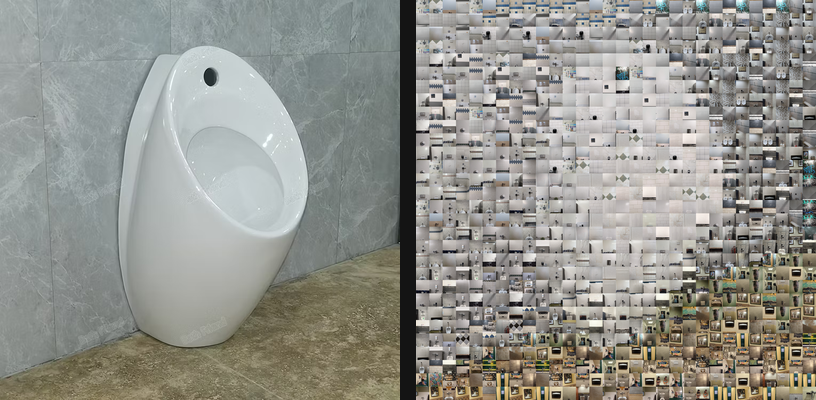
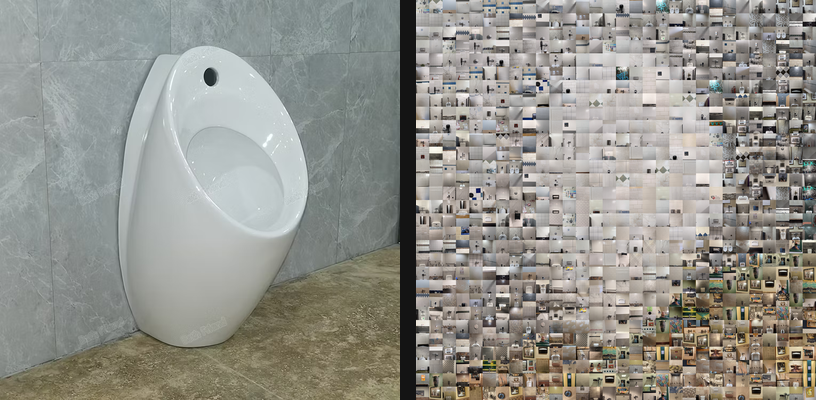
replace reuse caps with a continuous diversity dial
--max-reuse and --min-repeat-dist were hard filters: the matcher walked tiles
by ascending delta-E and took the first that passed, silently falling back to
the nearest tile when nothing did. There was no way to say "prefer variety but
keep matching well", only "forbid reuse past N".

Tiles are now costed as delta_e + weight * penalty, where the penalty grows
with prior placements and with how close they are to the current cell, and
--diversity (0-10, default 3) sets the weight. A reused tile still wins when
it is a markedly better colour match, so the dial never forces an obviously
wrong tile in for the sake of variety.

The penalty is measured against each tile's fair share (cells / tiles). Without
that, a gallery with fewer tiles than cells gets charged for repeats it cannot
avoid, the penalty swamps colour distance, and the result degrades badly.

Measured on the 1440-tile gallery at grain 25: the old caps reached 536 distinct
tiles at 13.92 mean delta-E, past the point where mismatches read as wrong. The
dial at its default reaches 699 at 5.77, because it only swaps where a near-equal
tile exists. The showcase is regenerated accordingly.

Changed region(s): [[0.4902, 0.0, 1.0, 1.0]]

diff --git a/src/mosaic_builder/matcher.py b/src/mosaic_builder/matcher.py
@@ -96,6 +96,49 @@ class MatchResult:
     matches: list[CellMatch]
 
 
+#: User-facing `--diversity` dial runs 0..10; this maps it onto the reuse
+#: penalty in Delta-E units per prior placement. At 10 a tile already used
+#: once is treated as ~6 Delta-E worse than it measures, which is half the
+#: "looks off" threshold of ~12 — strong pressure without ignoring colour.
+_DIVERSITY_SCALE = 0.6
+
+#: Default dial position. Measured on the 1440-tile gallery against the urinal
+#: target at grain 25: mean Delta-E 5.34 (well inside the ~12 "looks off"
+#: threshold), 587 distinct tiles, no tile placed more than 4 times. At 0 a
+#: single tile was used 138 times out of 900 cells. See the README table.
+_DEFAULT_DIVERSITY = 3.0
+
+#: Chebyshev radius within which a repeat is considered "nearby" and charged
+#: extra. Beyond this, only the global use count applies.
+_LOCAL_RADIUS = 4
+
+#: How much more a repeat immediately adjacent costs than a generic reuse.
+#: Falls off linearly to zero at `_LOCAL_RADIUS`.
+_LOCAL_STRENGTH = 4.0
+
+
+def diversity_weight(diversity: float) -> float:
+    """Map the 0..10 `--diversity` dial onto a Delta-E-per-reuse penalty."""
+    return max(0.0, float(diversity)) * _DIVERSITY_SCALE
+
+
+def _nearby_placements(
+    placed: dict[tuple[int, int], int], cell: CellDescriptor, radius: int
+) -> list[tuple[tuple[int, int], int]]:
+    """Already-placed cells within Chebyshev `radius` of `cell`.
+
+    Scans the neighbourhood rather than every prior placement, so the cost per
+    cell stays constant as the mosaic grows.
+    """
+    found = []
+    for row in range(cell.row - radius, cell.row + 1):
+        for col in range(cell.col - radius, cell.col + radius + 1):
+            tile_idx = placed.get((row, col))
+            if tile_idx is not None:
+                found.append(((row, col), tile_idx))
+    return found
+
+
 def _distances(cells: np.ndarray, tiles: np.ndarray) -> np.ndarray:
     """Euclidean (CIE76) distance matrix between cell and tile LAB vectors."""
     return np.sqrt(((cells[:, None, :] - tiles[None, :, :]) ** 2).sum(-1))
@@ -107,27 +150,34 @@ def match_grid(
     *,
     tile_side: int,
     db_path: str,
-    max_reuse: int = 0,
-    min_repeat_dist: int = 0,
+    diversity: float = _DEFAULT_DIVERSITY,
     show_progress: bool = False,
 ) -> MatchResult:
-    """Greedily assign the nearest acceptable tile to every cell of `grid`.
+    """Assign a tile to every cell of `grid`, trading colour fidelity for variety.
 
     `descriptors` is the list returned by `get_tile_lab_descriptors`; LAB is
     read from the keys `mean_L`, `mean_a` and `mean_bb` (note that `mean_b` is
     RGB blue, not LAB b*).
 
-    Cells are walked in row-major order. For each cell the tiles are considered
-    in ascending LAB distance and the first candidate satisfying both
-    constraints wins:
+    Cells are walked in row-major order. Each tile is costed as::
 
-    * `max_reuse` (> 0): the tile has been placed fewer than `max_reuse` times.
-    * `min_repeat_dist` (> 0): the tile has not been placed at any cell within
-      Chebyshev distance `min_repeat_dist` of this one.
+        cost = delta_e + diversity_weight(diversity) * penalty
 
-    A value of 0 disables the corresponding constraint. When no candidate
-    satisfies the constraints the unconstrained nearest tile is used instead;
-    this function never raises for an unsatisfiable constraint set.
+    where ``penalty`` is how many times the tile has already been placed
+    *relative to its fair share* (``cells / tiles``), plus an extra charge for
+    placements within `_LOCAL_RADIUS` cells of this one that falls off with
+    distance. The cheapest tile wins. A heavily reused tile can therefore still
+    be chosen when it is a markedly better colour match, which is the point:
+    `diversity` expresses a preference, not a constraint.
+
+    Scaling by fair share is what keeps a dial position meaning the same thing
+    across galleries. With fewer tiles than cells, repeats are unavoidable, and
+    charging for them from the first repeat would drown out colour distance.
+
+    `diversity` runs 0..10. At 0 this is plain nearest-colour matching. Higher
+    values buy variety at the cost of mean Delta-E; see the README's tradeoff
+    table. There is no unsatisfiable-constraint case to fall back from, so this
+    never silently ignores the setting.
     """
     if not descriptors:
         raise ValueError("No tiles in database")
@@ -143,9 +193,16 @@ def match_grid(
     n_tiles = tiles.shape[0]
     chunk_size = 1024 if n_cells * n_tiles > 20_000_000 else n_cells
 
-    constrained = max_reuse > 0 or min_repeat_dist > 0
-    usage: dict[tuple[int, int], int] = {}
-    placements: dict[tuple[int, int], list[tuple[int, int]]] = {}
+    weight = diversity_weight(diversity)
+    #: How often each tile must be placed if usage were spread perfectly. When
+    #: cells outnumber tiles this is large, and reuse is unavoidable — charging
+    #: for it from the first repeat would swamp colour distance and make the
+    #: choice effectively random. Measuring usage relative to this keeps a dial
+    #: position meaning the same thing on a 9-tile and a 14000-tile gallery.
+    fair_share = max(n_cells / n_tiles, 1e-9)
+    uses = np.zeros(n_tiles, dtype=np.float64)
+    #: Tile index placed at each (row, col), for the local-repeat lookup.
+    placed: dict[tuple[int, int], int] = {}
     matches: list[CellMatch] = []
 
     block: np.ndarray | None = None
@@ -157,25 +214,24 @@ def match_grid(
         dists = block[i - block_start]
         cell = grid.cells[i]
 
-        chosen: int | None = None
-        if constrained:
-            for candidate in np.argsort(dists):
-                key = keys[candidate]
-                if max_reuse > 0 and usage.get(key, 0) >= max_reuse:
-                    continue
-                if min_repeat_dist > 0 and any(
-                    max(abs(r - cell.row), abs(c - cell.col)) < min_repeat_dist
-                    for r, c in placements.get(key, ())
-                ):
-                    continue
-                chosen = int(candidate)
-                break
-        if chosen is None:
+        if weight <= 0.0:
             chosen = int(np.argmin(dists))
+        else:
+            penalty = uses / fair_share
+            for (row, col), tile_idx in _nearby_placements(placed, cell, _LOCAL_RADIUS):
+                distance = max(abs(row - cell.row), abs(col - cell.col))
+                falloff = (_LOCAL_RADIUS - distance + 1) / (_LOCAL_RADIUS + 1)
+                # Take the closest prior placement rather than summing them.
+                # Summing stacks up when few tiles are available, swamping
+                # colour distance; what actually reads badly is one repeat
+                # sitting near this cell, not several scattered in range.
+                local = _LOCAL_STRENGTH * falloff
+                penalty[tile_idx] = max(penalty[tile_idx], uses[tile_idx] / fair_share + local)
+            chosen = int(np.argmin(dists + weight * penalty))
 
+        uses[chosen] += 1.0
+        placed[(cell.row, cell.col)] = chosen
         key = keys[chosen]
-        usage[key] = usage.get(key, 0) + 1
-        placements.setdefault(key, []).append((cell.row, cell.col))
         matches.append(
             CellMatch(
                 row=cell.row,
@@ -247,8 +303,7 @@ def run_match(
     *,
     grain: int,
     tile_side: int | None = None,
-    max_reuse: int = 0,
-    min_repeat_dist: int = 0,
+    diversity: float = _DEFAULT_DIVERSITY,
     show_progress: bool = True,
 ) -> MatchResult:
     """Analyse `target_path` and match it against the tiles in `db_path`."""
@@ -276,8 +331,7 @@ def run_match(
         descriptors,
         tile_side=tile_side,
         db_path=str(db_path),
-        max_reuse=max_reuse,
-        min_repeat_dist=min_repeat_dist,
+        diversity=diversity,
         show_progress=show_progress,
     )
 
@@ -294,8 +348,12 @@ def build_parser(sub: argparse._SubParsersAction | None = None) -> argparse.Argu
     parser.add_argument("--db", type=Path, default=Path("mosaic.duckdb"))
     parser.add_argument("--grain", type=int, required=True, help="Cell edge length in target pixels")
     parser.add_argument("--tile-side", type=int, default=None)
-    parser.add_argument("--max-reuse", type=int, default=0, help="0 means unlimited reuse")
-    parser.add_argument("--min-repeat-dist", type=int, default=0, help="0 means no spacing constraint")
+    parser.add_argument(
+        "--diversity",
+        type=float,
+        default=3.0,
+        help="0-10: how much to favour tile variety over exact colour match (0 = pure match)",
+    )
     parser.add_argument("--out", type=Path, required=True)
     parser.add_argument("--no-progress", action="store_true", help="Disable progress output")
     parser.set_defaults(handler=run_from_args)
@@ -313,8 +371,7 @@ def run_from_args(args: argparse.Namespace) -> None:
         args.db,
         grain=args.grain,
         tile_side=args.tile_side,
-        max_reuse=args.max_reuse,
-        min_repeat_dist=args.min_repeat_dist,
+        diversity=args.diversity,
         show_progress=not args.no_progress,
     )
     save_match_result(result, args.out)

diff --git a/tests/test_matcher.py b/tests/test_matcher.py
@@ -87,39 +87,98 @@ def test_match_grid_picks_nearest_tile():
     assert all(m.delta_e < 1.0 for m in result.matches)
 
 
-def test_match_grid_respects_max_reuse():
+def test_match_grid_diversity_zero_is_pure_nearest_match():
+    """The dial at 0 must reproduce plain nearest-colour matching exactly."""
     red = RED_LAB
     dark_red = mean_lab(Image.new("RGB", (8, 8), (150, 0, 0)))
-    orange = mean_lab(Image.new("RGB", (8, 8), (255, 140, 0)))
-    descriptors = [
-        _descriptor(1, 0, red),
-        _descriptor(2, 0, dark_red),
-        _descriptor(3, 0, orange),
-    ]
+    descriptors = [_descriptor(1, 0, red), _descriptor(2, 0, dark_red)]
     grid = _grid([red, red, red], rows=1, cols=3)
-    result = matcher.match_grid(grid, descriptors, tile_side=64, db_path="db", max_reuse=1)
+    result = matcher.match_grid(grid, descriptors, tile_side=64, db_path="db", diversity=0.0)
+
+    used = [(m.image_id, m.tile_index) for m in result.matches]
+    assert used == [(1, 0)] * 3
+
+
+def test_match_grid_diversity_spreads_tiles():
+    """Among comparable alternatives, the dial spreads usage across them.
+
+    Uses near-identical tiles because that is the realistic case: this
+    gallery's mean nearest-neighbour distance is around 1 Delta-E.
+    """
+    near = [
+        RED_LAB,
+        (RED_LAB[0] + 1.0, RED_LAB[1], RED_LAB[2]),
+        (RED_LAB[0] + 2.0, RED_LAB[1], RED_LAB[2]),
+    ]
+    descriptors = [_descriptor(i + 1, 0, lab) for i, lab in enumerate(near)]
+    grid = _grid([RED_LAB] * 3, rows=1, cols=3)
+    result = matcher.match_grid(grid, descriptors, tile_side=64, db_path="db", diversity=10.0)
 
     used = [(m.image_id, m.tile_index) for m in result.matches]
     assert len(set(used)) == 3
-    assert used[0] == (1, 0)
+    assert used[0] == (1, 0), "the first cell has no reuse history, so it takes the best match"
 
 
-def test_match_grid_respects_min_repeat_dist():
-    a_lab = RED_LAB
-    b_lab = (RED_LAB[0] + 0.5, RED_LAB[1], RED_LAB[2])
-    descriptors = [_descriptor(1, 0, a_lab), _descriptor(2, 0, b_lab)]
-    grid = _grid([a_lab] * 4, rows=1, cols=4)
-    result = matcher.match_grid(grid, descriptors, tile_side=64, db_path="db", min_repeat_dist=2)
+def test_match_grid_diversity_will_not_swap_to_a_far_worse_tile():
+    """Diversity is a preference, not a mandate.
 
-    used = [(m.image_id, m.tile_index) for m in result.matches]
-    for left, right in zip(used, used[1:], strict=False):
-        assert left != right
+    A blue tile is ~40 Delta-E from red — far past the point where a mismatch
+    reads as wrong — so even a maxed dial keeps reusing the red tile rather
+    than vandalising the mosaic for the sake of variety.
+    """
+    blue = mean_lab(Image.new("RGB", (8, 8), (0, 0, 255)))
+    descriptors = [_descriptor(1, 0, RED_LAB), _descriptor(2, 0, blue)]
+    grid = _grid([RED_LAB] * 3, rows=1, cols=3)
+    result = matcher.match_grid(grid, descriptors, tile_side=64, db_path="db", diversity=10.0)
+
+    assert all((m.image_id, m.tile_index) == (1, 0) for m in result.matches)
 
 
-def test_match_grid_falls_back_when_constraints_impossible():
+def test_match_grid_diversity_trades_fidelity_for_variety_monotonically():
+    """Turning the dial up must not reduce variety or improve mean delta-E."""
+    labs = [RED_LAB, mean_lab(Image.new("RGB", (8, 8), (200, 20, 20)))]
+    descriptors = [_descriptor(i, 0, lab) for i, lab in enumerate(labs)]
+    grid = _grid([RED_LAB] * 16, rows=4, cols=4)
+
+    previous_distinct, previous_mean = 0, -1.0
+    for dial in (0.0, 2.0, 5.0, 10.0):
+        result = matcher.match_grid(grid, descriptors, tile_side=64, db_path="db", diversity=dial)
+        distinct = len({(m.image_id, m.tile_index) for m in result.matches})
+        mean_delta_e = sum(m.delta_e for m in result.matches) / len(result.matches)
+        assert distinct >= previous_distinct
+        assert mean_delta_e >= previous_mean
+        previous_distinct, previous_mean = distinct, mean_delta_e
+
+
+def test_match_grid_diversity_does_not_degrade_when_tiles_are_scarce():
+    """Reuse pressure must never force in a wildly wrong tile.
+
+    With far fewer tiles than cells every tile has to repeat. Charging for
+    that unavoidable reuse from the first repeat made the penalty grow without
+    bound until it swamped colour distance, and the matcher started reaching
+    for terrible tiles purely to avoid repeating. Penalties are measured
+    against each tile's fair share (cells / tiles) so that cannot happen.
+    """
+    good = RED_LAB
+    acceptable = (RED_LAB[0] + 4.0, RED_LAB[1], RED_LAB[2])
+    terrible = mean_lab(Image.new("RGB", (8, 8), (0, 0, 255)))
+    descriptors = [
+        _descriptor(1, 0, good),
+        _descriptor(2, 0, acceptable),
+        _descriptor(3, 0, terrible),
+    ]
+    grid = _grid([RED_LAB] * 100, rows=10, cols=10)
+    result = matcher.match_grid(grid, descriptors, tile_side=64, db_path="db", diversity=10.0)
+
+    terrible_uses = sum(1 for m in result.matches if m.image_id == 3)
+    assert terrible_uses == 0, "a ~40 delta-E tile must never be forced in by reuse pressure"
+
+
+def test_match_grid_single_tile_still_fills_every_cell():
+    """With one tile there is no variety to find, but every cell must be filled."""
     descriptors = [_descriptor(1, 0, RED_LAB)]
     grid = _grid([RED_LAB] * 4, rows=2, cols=2)
-    result = matcher.match_grid(grid, descriptors, tile_side=64, db_path="db", max_reuse=1)
+    result = matcher.match_grid(grid, descriptors, tile_side=64, db_path="db", diversity=10.0)
 
     assert len(result.matches) == 4
     assert all((m.image_id, m.tile_index) == (1, 0) for m in result.matches)

diff --git a/src/mosaic_builder/__main__.py b/src/mosaic_builder/__main__.py
@@ -28,8 +28,12 @@ def build_mosaic_parser(sub: argparse._SubParsersAction) -> argparse.ArgumentPar
     parser.add_argument("--db", type=Path, default=Path("mosaic.duckdb"))
     parser.add_argument("--grain", type=int, required=True, help="Cell edge length in target pixels")
     parser.add_argument("--tile-side", type=int, default=None)
-    parser.add_argument("--max-reuse", type=int, default=0, help="0 means unlimited reuse")
-    parser.add_argument("--min-repeat-dist", type=int, default=0, help="0 means no spacing constraint")
+    parser.add_argument(
+        "--diversity",
+        type=float,
+        default=3.0,
+        help="0-10: how much to favour tile variety over exact colour match (0 = pure match)",
+    )
     parser.add_argument(
         "--blend",
         type=float,
@@ -65,8 +69,7 @@ def run_mosaic_from_args(args: argparse.Namespace) -> None:
         db_path,
         grain=args.grain,
         tile_side=args.tile_side,
-        max_reuse=args.max_reuse,
-        min_repeat_dist=args.min_repeat_dist,
+        diversity=args.diversity,
         show_progress=show_progress,
     )
     if args.keep_match is not None:

diff --git a/tests/test_examples.py b/tests/test_examples.py
@@ -34,8 +34,7 @@ REQUIRED_KEYS = {
     "target_size",
     "grain",
     "tile_side",
-    "max_reuse",
-    "min_repeat_dist",
+    "diversity",
     "blend",
     "rows",
     "cols",
@@ -96,6 +95,5 @@ def test_every_committed_file_is_under_its_size_ceiling():
 def test_cli_command_reflects_the_recorded_parameters():
     cli = SUMMARY["cli"]
     assert f"--grain {SUMMARY['grain']}" in cli
-    assert f"--max-reuse {SUMMARY['max_reuse']}" in cli
-    assert f"--min-repeat-dist {SUMMARY['min_repeat_dist']}" in cli
+    assert f"--diversity {SUMMARY['diversity']}" in cli
     assert SUMMARY["target"] in cli
